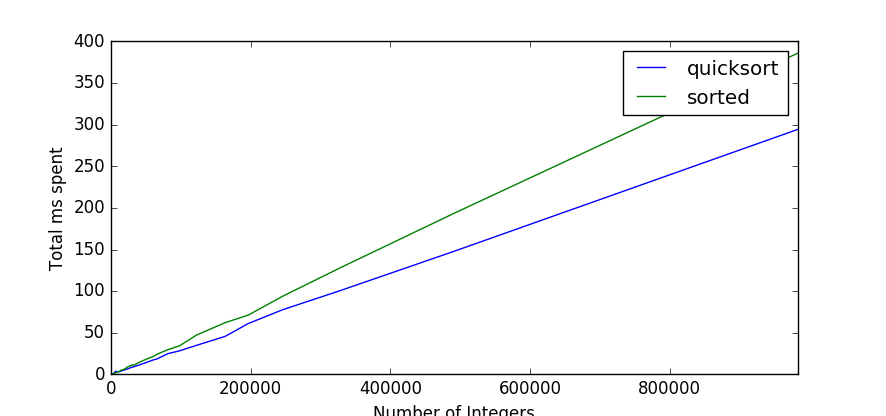
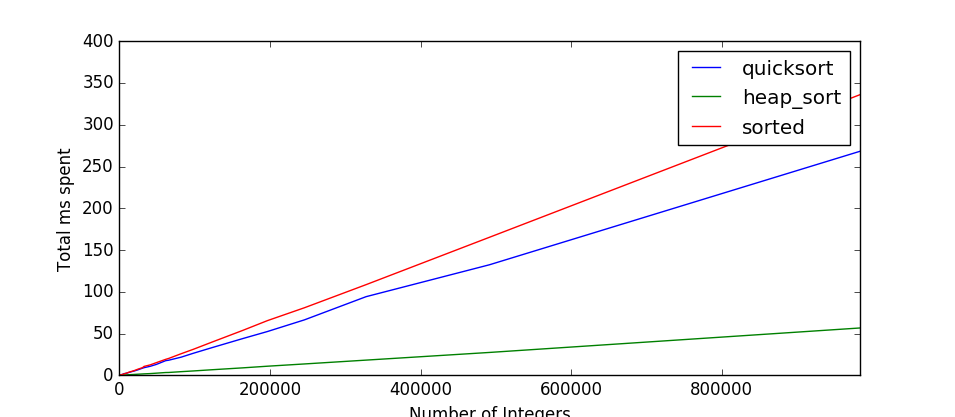
Add heapq-based sorting

diff --git a/lazyquicksort.py b/lazyquicksort.py
@@ -7,6 +7,7 @@ from lazy_sort.merge_sort import merge_sort
 from lazy_sort.boramalper import lazysort
 from lazy_sort.quick_sort import quicksort, quicksort_flat, quicksort_hybrid
 from lazy_sort.insertion_sort import insertion_sort
+from lazy_sort.heap import heap_sort, heap_sort_batch
 
 
 def take(iterable, n):
@@ -36,13 +37,15 @@ def benchmark_one(sort_fn, size, fraction, ints, verify=False):
 
 def do_benchmark():
     functions = [
-        quicksort_flat,
-        quicksort_hybrid,
+        # quicksort_flat,
+        # quicksort_hybrid,
         quicksort,
-        lazysort,
+        heap_sort,
+        # heap_sort_batch,
+        # lazysort,
         sorted,
-        insertion_sort,
-        merge_sort,
+        # insertion_sort,
+        # merge_sort,
     ]
 
     r = random.Random(0)
@@ -114,6 +117,8 @@ def do_detail_analysis():
         # quicksort_flat,
         # quicksort_hybrid,
         quicksort,
+        heap_sort,
+        # heap_sort_batch,
         # lazysort,
         sorted,
         # insertion_sort,

diff --git a/lazy_sort/heap.py b/lazy_sort/heap.py
@@ -1,0 +1,20 @@
+import heapq
+
+
+def heap_sort(unsorted):
+    # Copy the data
+    unsorted = unsorted[:]
+
+    return heap_sort_destructive(unsorted)
+
+
+def heap_sort_destructive(items):
+    heapq.heapify(items)
+
+    while items:
+        yield heapq.heappop(items)
+
+
+def heap_sort_batch(unsorted):
+    while unsorted:
+        yield from heapq.nsmallest(100, unsorted)

diff --git a/README.md b/README.md
@@ -47,29 +47,30 @@ When comparing my implementation to lazy sort and the built-in `sorted` function
 
 <a href="images/sort_results1.png" title="Finding top 10 in a list of integers" width="200" height="150"><img src="images/sort_results1.png" alt="Triangle"></a>
 
-If we remove `lazysort` from the chart, we can clearly see that my generator-based quicksort can indeed a bit faster than the built-in `sorted` function, if we only need the first 10 items.
+The chart is dominated by `lazysort`, obscuring the fact that partial quicksort is indeed faster than the built-in `sorted`.
+
+**Update** [/u/imps-p0155](https://www.reddit.com/user/imps-p0155) mentioned in his [comment](https://www.reddit.com/r/Python/comments/5mqvqb/lazy_sorting_in_python/dc5pk6n/) that using `heapq.heapify` would provide even better performance. He's absolutely right:
 
 <a href="images/sort_results2.png" title="Finding top 10 in a list of integers" width="200" height="150"><img src="images/sort_results2.png"></a>
+
 
 Further Analysis
 ================
 
-Now that we know we can beat `sorted`, let's see why this is. A lazy sorting algorithm only has benefit when it can decide not to do some work. In quicksort's case, not having to sort the right partition severaltimes in a row is a huge benefit. But where's the cut-off when sorting items?
+Now that we know we can beat `sorted`, let's see why this is. A lazy sorting algorithm only has benefit when it can decide not to do some work. In quicksort's case, not having to sort the right partition several times in a row is a huge benefit. But where's the cut-off when sorting items?
 
 <a href="images/sort_results3.png" title="Finding top 10 in a list of integers" width="200" height="150"><img src="images/sort_results3.png"></a>
 
-That's disapointing. If you just need the first few percent, lazy `quicksort` can help you out, but beyond that, you're probably better off sorting the entire list.
+If you just need the first few percent, lazy `quicksort` can help out, but it has nothing on using `heapq`, which breaks even at ~45%, and has a worst case (100% iteration) premium of only 200% over `sorted`. **Conclusion**: while partial quicksort is an interesting gimmick, it has no added value over `heapq`.
 
 Possible performance improvements
 =================================
 
-IMHO, first course of action would be to port this code to C; that's where performant low-level code lives; and that's were our benchmark `sorted` is implemented. This code can benefit significantly from pointer arithmatic, which is not an option in Python.
-
-The algorithm itself can also be improved. Quicksort is known to be highly performant on large lists, but have poor performance on short lists. Quicksort could internally fall back to (e.g.) mergesort or bubblesort for short lists. This could make sorting the inner lists a bit faster. Also, one needn't use Python's call stack for recursion, a lighter structure may yield better performance, too.
+I'm doubtful optimization of `quicksort` will make it compete with `heapq`. Partial `quicksort`'s best case (only retrieving one item) still requires performing `log(n)` partitions; *O(n log(log(n))* performance, and it's worst case (retrieving all items) is still *O(n log(n))*. The `heapq` based solution has a generalized performance of *O(n + m log(n))*, which is always better than `quicksort`.
 
 Possible feature improvements
 =============================
 
 Currently support for `sorted`'s `key` and `reverse` parameters is lacking, but those are trivial to add.
 
-Lazy Quicksort could fake an list-like interface. The current implementation only sorts the head, but the priciple applies to any part of the sorted list. This coult speed up computation of median values, and percentiles.
+Lazy Quicksort could fake an list-like interface. The current implementation only sorts the head, but the principle applies to any part of the sorted list. This is something you can't achieve with heapq, which can only operate at the end of the lists. This could speed up computation of median values, and percentiles, although with my test data, it will probably only outperform `heapq` for the 45-55 percentile, which is a really narrow niche.
